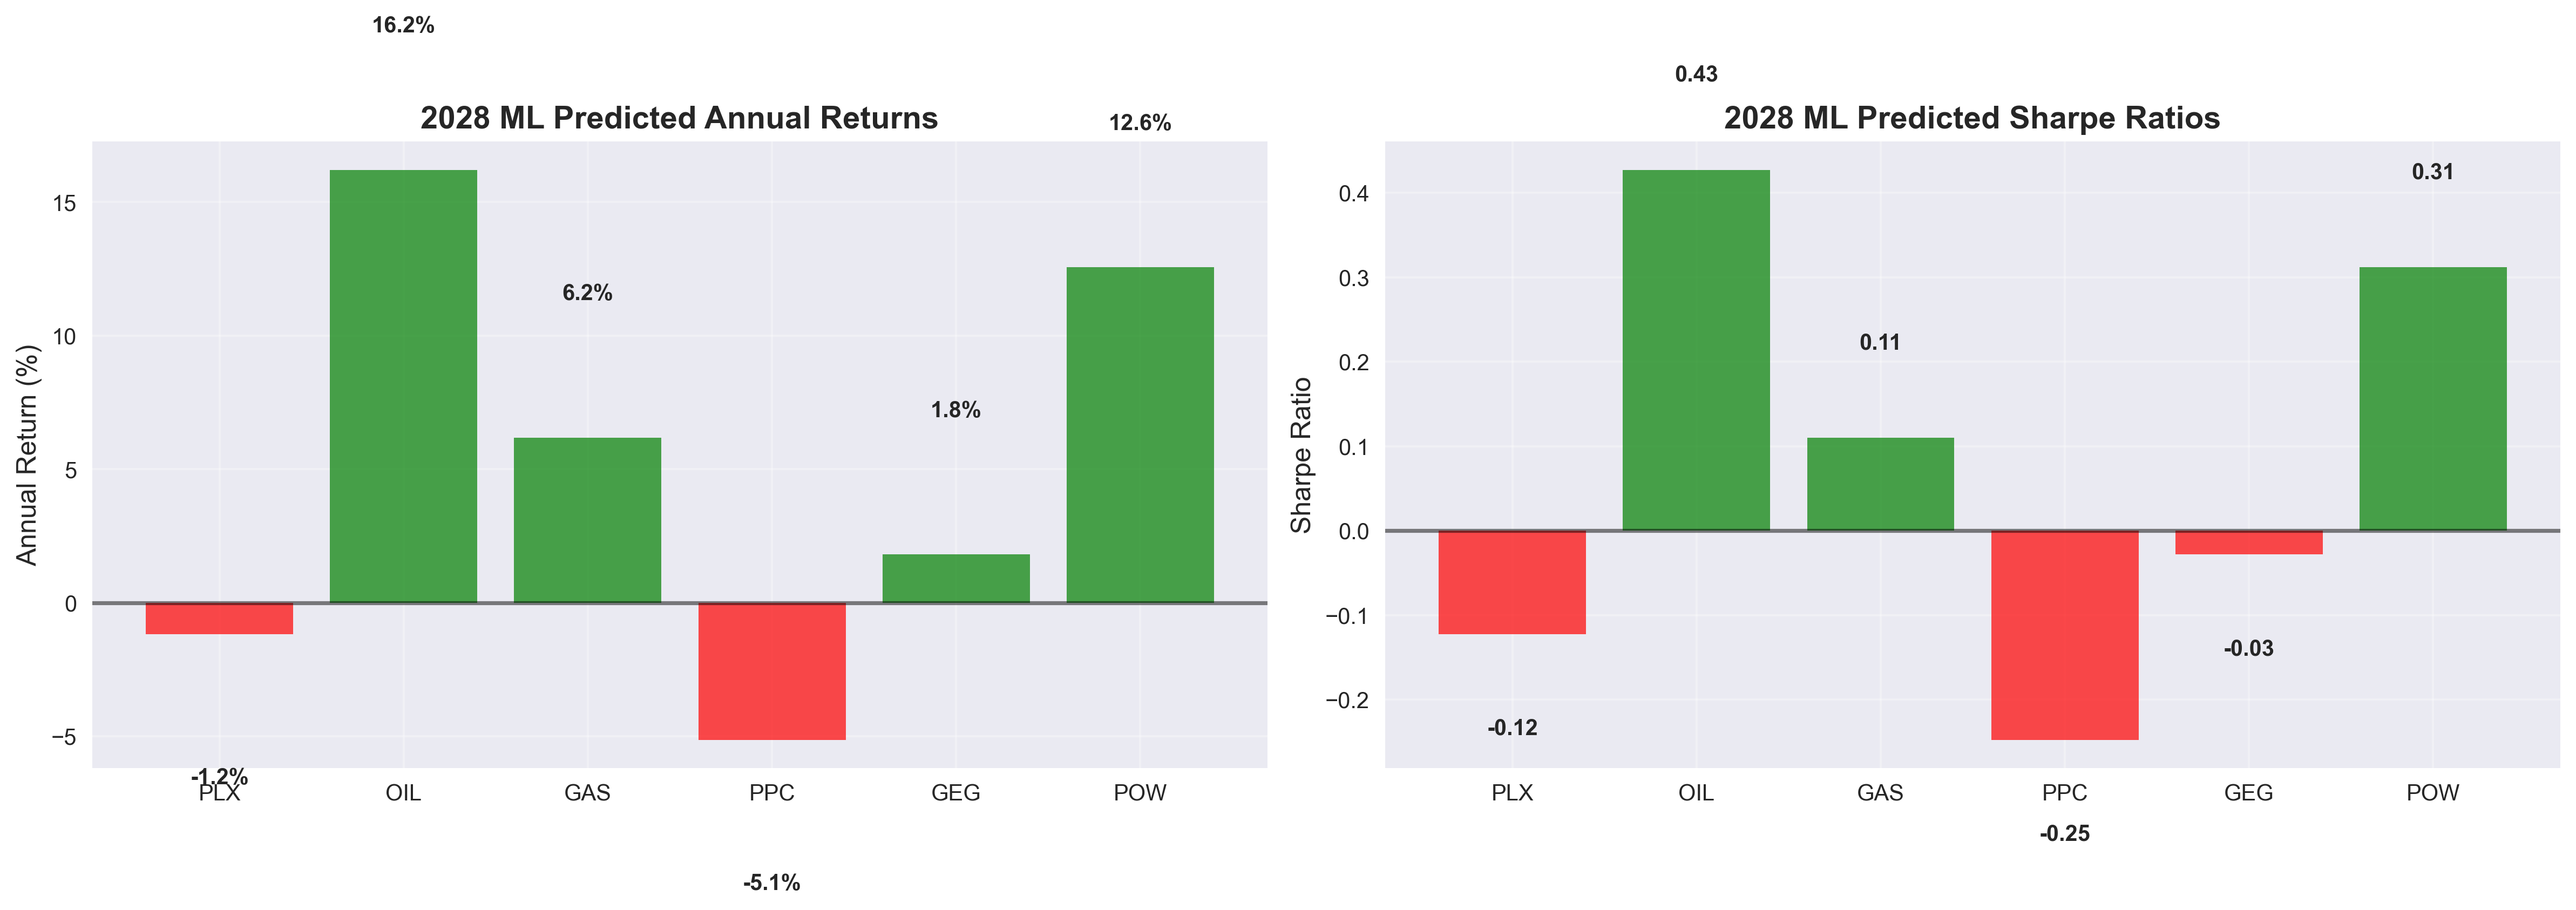
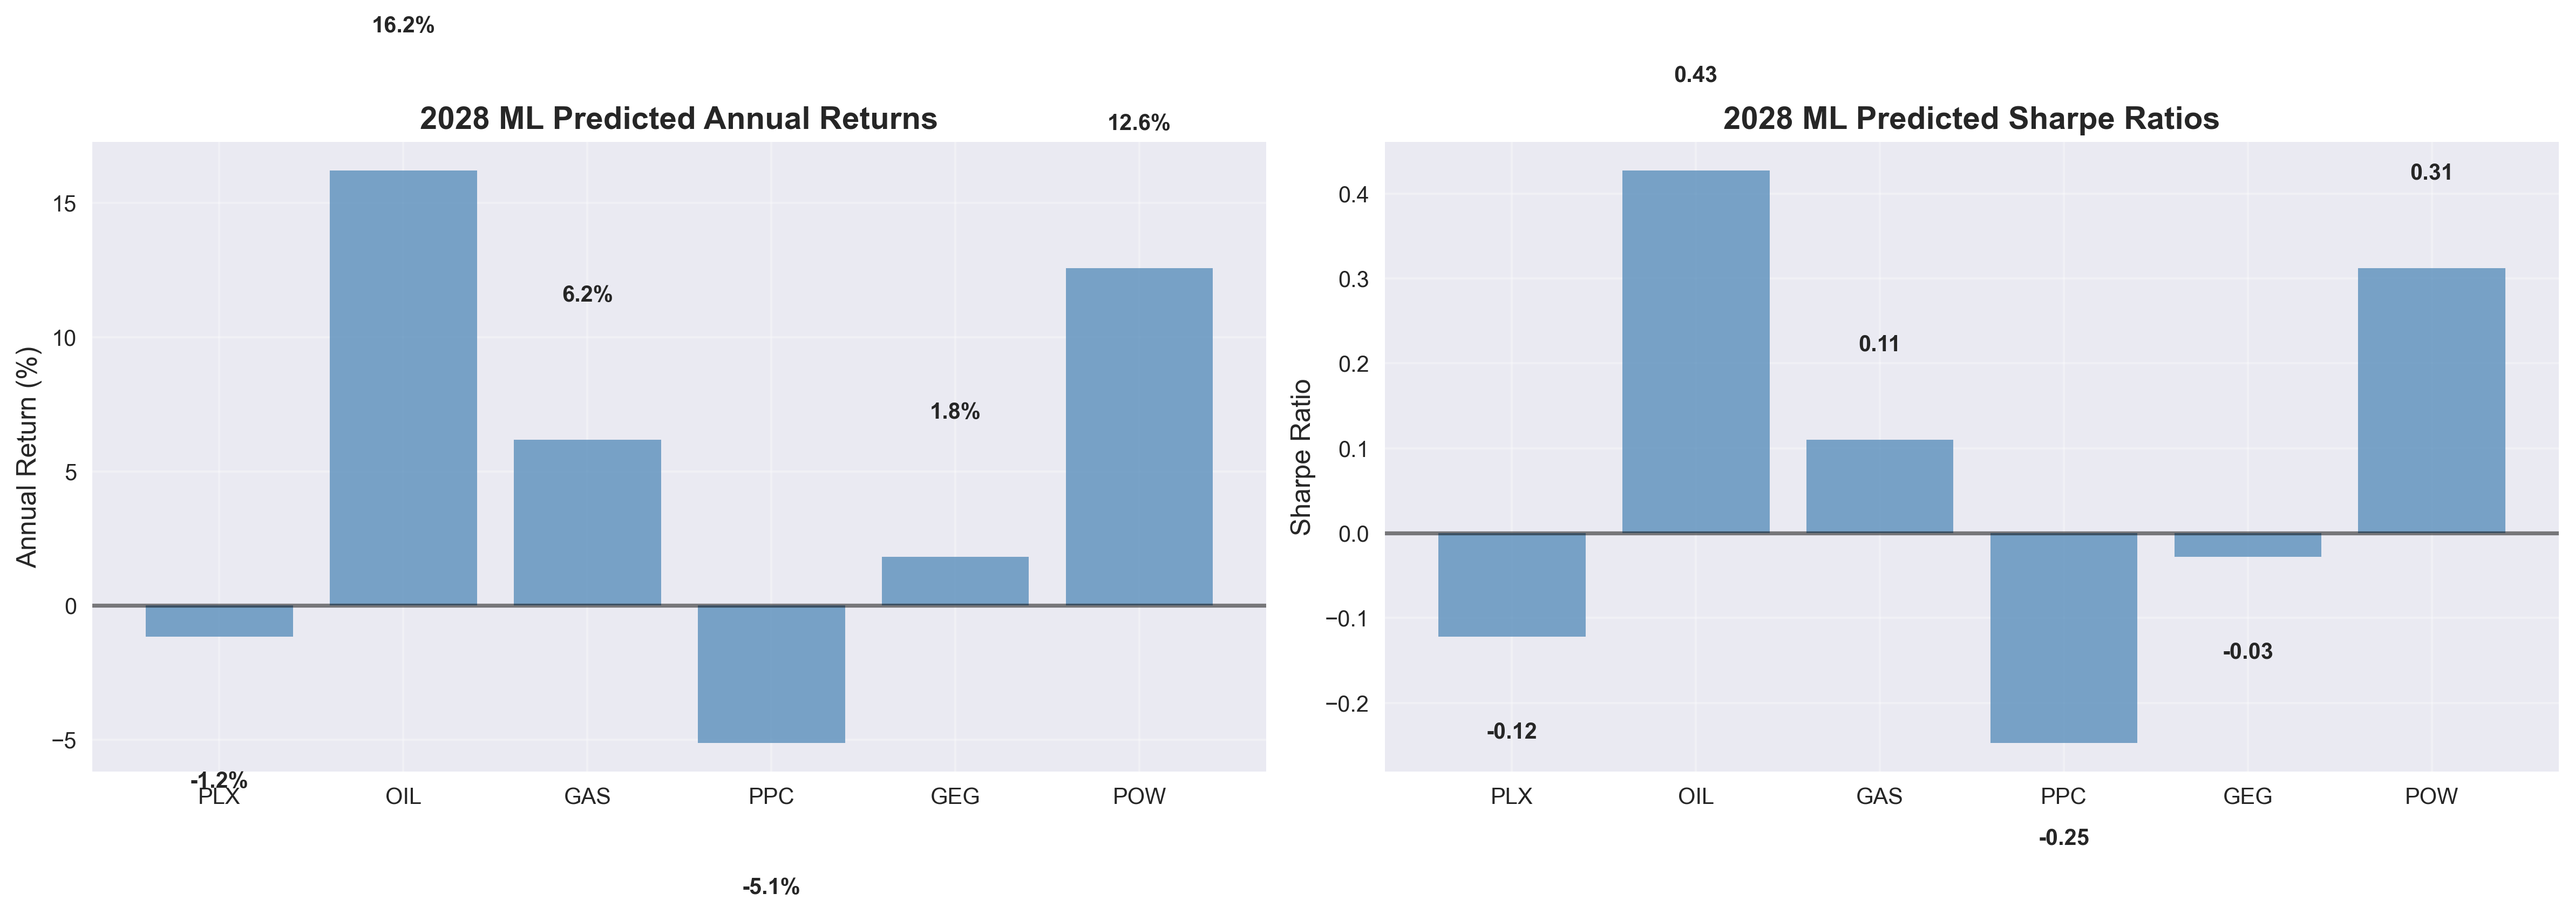
update

diff --git a/quantitative_flow_analysis.py b/quantitative_flow_analysis.py
@@ -185,9 +185,8 @@ print(f"\n📊 Tạo biểu đồ Annualized Mean...")
 
 plt.figure(figsize=(12, 6))
 annualized_mean_data = summary_returns['Annualized Mean'].sort_values(ascending=False)
-colors = ['green' if x > 0 else 'red' for x in annualized_mean_data.values]
 
-bars = plt.bar(annualized_mean_data.index, annualized_mean_data.values, color=colors, alpha=0.7)
+bars = plt.bar(annualized_mean_data.index, annualized_mean_data.values, color='steelblue', alpha=0.7)
 
 plt.title('Annualized Mean by Stock', fontsize=16, fontweight='bold')
 plt.xlabel('Stocks', fontsize=12)
@@ -244,9 +243,8 @@ print(f"\n📊 Tạo biểu đồ Annual Volatility...")
 
 plt.figure(figsize=(12, 6))
 volatility_data = risk_df['Volatility'].sort_values(ascending=False)
-colors = ['red', 'orange', 'gold', 'lightgreen', 'green', 'darkgreen']
 
-bars = plt.bar(volatility_data.index, volatility_data.values, color=colors, alpha=0.7)
+bars = plt.bar(volatility_data.index, volatility_data.values, color='steelblue', alpha=0.7)
 
 plt.title('Annual Volatility by Stock', fontsize=16, fontweight='bold')
 plt.xlabel('Stocks', fontsize=12)
@@ -375,9 +373,8 @@ rtrr_weights = rtrr_normalized
 
 plt.figure(figsize=(12, 6))
 rtrr_weights_sorted = rtrr_weights.sort_values(ascending=False)
-colors = ['#FF6B6B', '#4ECDC4', '#45B7D1', '#96CEB4', '#FFEAA7', '#DDA0DD']
 
-bars = plt.bar(rtrr_weights_sorted.index, rtrr_weights_sorted.values, color=colors, alpha=0.8)
+bars = plt.bar(rtrr_weights_sorted.index, rtrr_weights_sorted.values, color='steelblue', alpha=0.8)
 
 plt.title('RTRR Normalized Weights by Stock', fontsize=16, fontweight='bold')
 plt.xlabel('Stocks', fontsize=12)
@@ -406,7 +403,7 @@ print(f"\n📊 RTRR NORMALIZED WEIGHTS TABLE:")
 print("=" * 50)
 rtrr_weights_sorted_table = rtrr_weights.sort_values(ascending=False)
 for ticker, weight in rtrr_weights_sorted_table.items():
-    print(f"   • {ticker}: {weight:.4f}")
+    print(f"   • {ticker}: {weight:.6f}")
 
 print(f"\n📊 RTRR Weight Distribution:")
 print(f"   • Top 3 stocks: {rtrr_weights_sorted_table.head(3).sum():.4f} ({rtrr_weights_sorted_table.head(3).sum()*100:.1f}%)")
@@ -1559,9 +1556,8 @@ def create_ml_prediction_charts(future_predictions, successful_tickers):
             # Left plot: Annual Returns
             tickers = list(annual_returns.keys())
             returns = list(annual_returns.values())
-            colors = ['green' if r > 0 else 'red' for r in returns]
             
-            bars1 = ax1.bar(tickers, [r*100 for r in returns], color=colors, alpha=0.7)
+            bars1 = ax1.bar(tickers, [r*100 for r in returns], color='steelblue', alpha=0.7)
             ax1.set_title(f'{year} ML Predicted Annual Returns', fontsize=14, fontweight='bold')
             ax1.set_ylabel('Annual Return (%)', fontsize=12)
             ax1.grid(True, alpha=0.3)
@@ -1576,9 +1572,8 @@ def create_ml_prediction_charts(future_predictions, successful_tickers):
             
             # Right plot: Sharpe Ratios
             sharpe_values = list(sharpe_ratios.values())
-            colors2 = ['green' if s > 0 else 'red' for s in sharpe_values]
             
-            bars2 = ax2.bar(tickers, sharpe_values, color=colors2, alpha=0.7)
+            bars2 = ax2.bar(tickers, sharpe_values, color='steelblue', alpha=0.7)
             ax2.set_title(f'{year} ML Predicted Sharpe Ratios', fontsize=14, fontweight='bold')
             ax2.set_ylabel('Sharpe Ratio', fontsize=12)
             ax2.grid(True, alpha=0.3)
